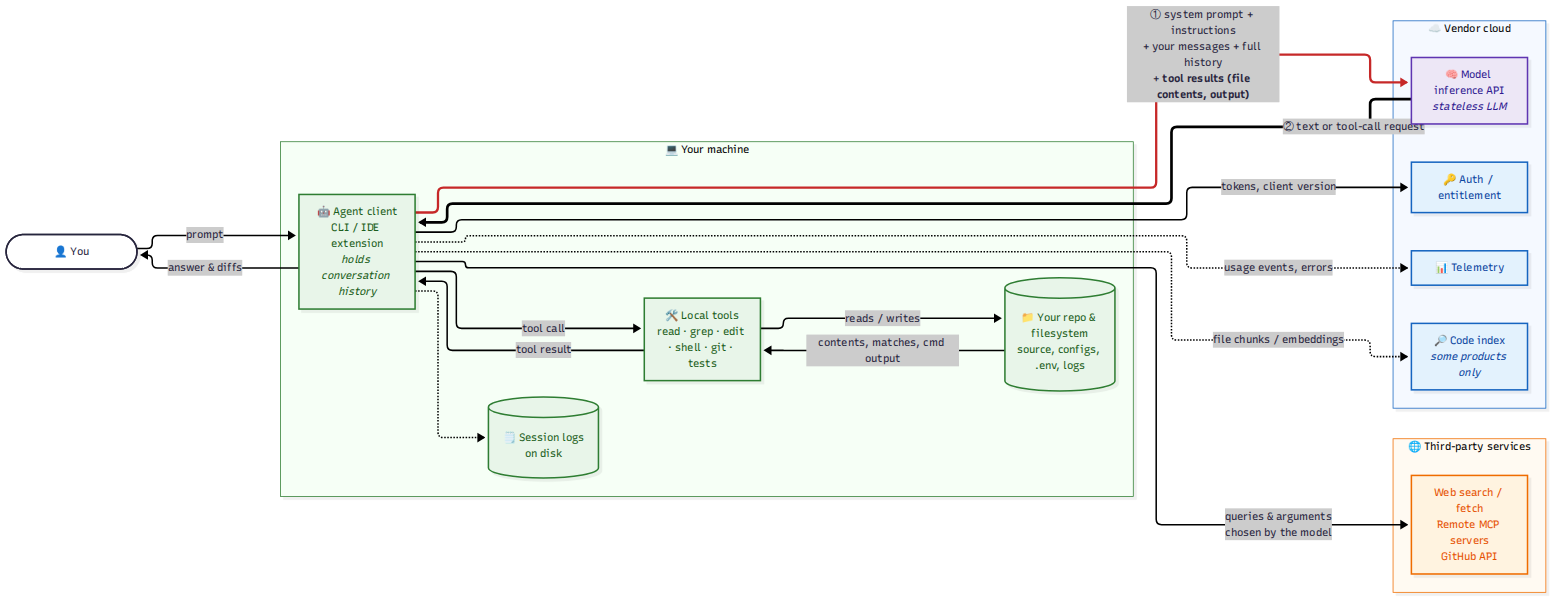
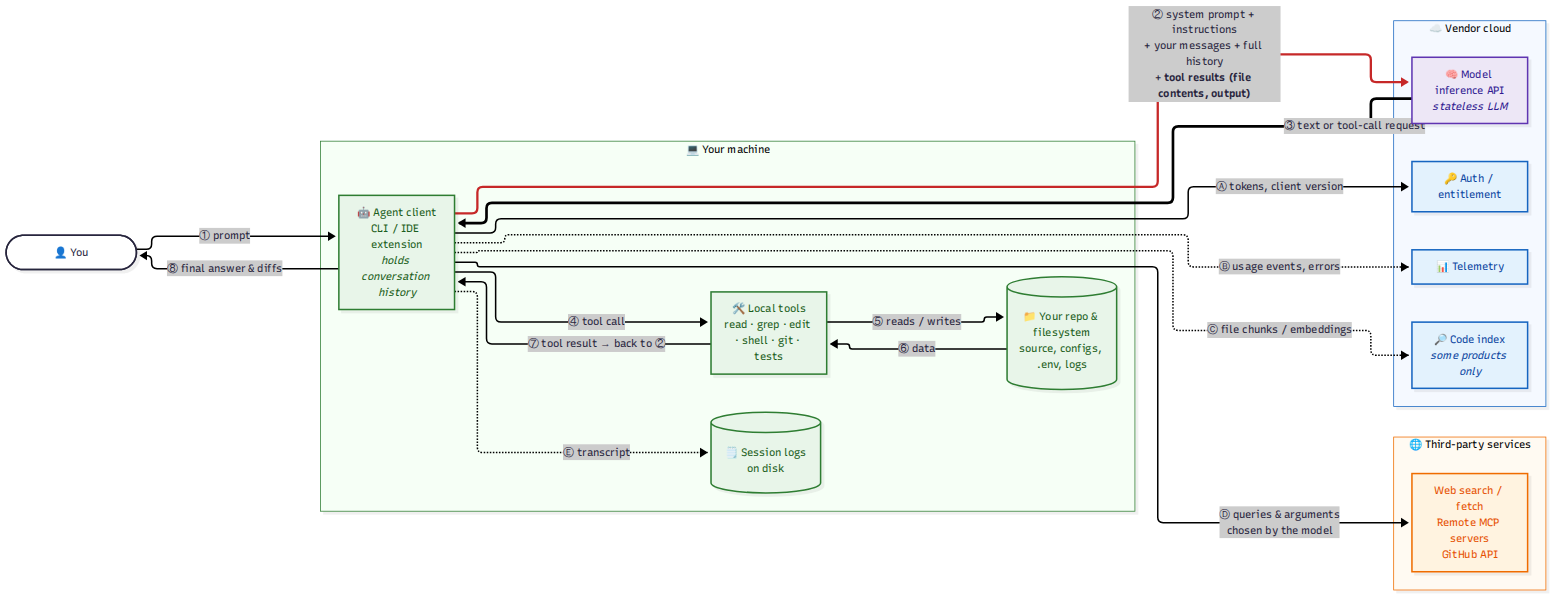
Number data flow diagram steps and add reading key

diff --git a/docs/data-flow.md b/docs/data-flow.md
@@ -12,11 +12,6 @@ flowchart LR
         T["🛠 Local tools<br/>read · grep · edit · shell · git · tests"]
         R[("📁 Your repo & filesystem<br/>source, configs, .env, logs")]
         L[("🗒 Session logs<br/>on disk")]
-        A -- "tool call" --> T
-        T -- "reads / writes" --> R
-        R -- "contents, matches, cmd output" --> T
-        T -- "tool result" --> A
-        A -.-> L
     end
 
     subgraph VENDOR["☁ Vendor cloud"]
@@ -32,15 +27,20 @@ flowchart LR
         X["Web search / fetch<br/>Remote MCP servers<br/>GitHub API"]
     end
 
-    U -- "prompt" --> A
-    A -- "answer & diffs" --> U
+    U -- "① prompt" --> A
+    A == "② system prompt + instructions<br/>+ your messages + full history<br/>+ <b>tool results (file contents, output)</b>" ==> M
+    M == "③ text or tool-call request" ==> A
+    A -- "④ tool call" --> T
+    T -- "⑤ reads / writes" --> R
+    R -- "⑥ data" --> T
+    T -- "⑦ tool result → back to ②" --> A
+    A -- "⑧ final answer & diffs" --> U
 
-    A == "① system prompt + instructions<br/>+ your messages + full history<br/>+ <b>tool results (file contents, output)</b>" ==> M
-    M == "② text or tool-call request" ==> A
-    A -- "tokens, client version" --> AU
-    A -. "usage events, errors" .-> TE
-    A -. "file chunks / embeddings" .-> IX
-    A -- "queries & arguments<br/>chosen by the model" --> X
+    A -- "Ⓐ tokens, client version" --> AU
+    A -. "Ⓑ usage events, errors" .-> TE
+    A -. "Ⓒ file chunks / embeddings" .-> IX
+    A -- "Ⓓ queries & arguments<br/>chosen by the model" --> X
+    A -. "Ⓔ transcript" .-> L
 
     classDef local fill:#e8f5e9,stroke:#2e7d32,color:#1b5e20
     classDef cloud fill:#e3f2fd,stroke:#1565c0,color:#0d47a1
@@ -50,7 +50,7 @@ flowchart LR
     class AU,TE,IX cloud
     class M model
     class X third
-    linkStyle 7 stroke:#c62828,stroke-width:3px
+    linkStyle 1 stroke:#c62828,stroke-width:3px
     style LOCAL fill:#f6fff6,stroke:#2e7d32
     style VENDOR fill:#f5f9ff,stroke:#1565c0
     style THIRD fill:#fffaf2,stroke:#ef6c00
@@ -58,7 +58,32 @@ flowchart LR
 
 **Legend:** 🟥 thick red = the main path where your code leaves the machine · ━ thick = model round-trip · ┄ dotted = optional / product-dependent · 🟩 local · 🟦 vendor · 🟧 third-party
 
-> The model never touches your disk. It only sees what the agent client puts in step ①, and the most sensitive part of that is **tool results**: file contents, search matches and command output.
+### Reading the diagram
+
+**Main loop (numbers)** — repeats ②→⑦ until the task is done:
+
+| # | Step | Leaves your machine? |
+|---|------|----------------------|
+| ① | You type a prompt into the agent | No |
+| ② | Agent sends system prompt, repo instructions, full history **and all tool results so far** to the model | **Yes — this is where your code goes** |
+| ③ | Model replies with text or a request to call a tool | (incoming) |
+| ④ | Agent runs the tool locally (may ask your permission) | No |
+| ⑤ | Tool reads or writes files / runs commands | No |
+| ⑥ | Files, search matches or command output come back to the tool | No |
+| ⑦ | Tool result is appended to history → next request goes back to ② | Sent on the next ② |
+| ⑧ | Agent shows you the final answer and file changes | No |
+
+**Side channels (letters)** — happen alongside the loop:
+
+| | Channel | Notes |
+|---|---------|-------|
+| Ⓐ | Auth / entitlement | Login tokens, client version |
+| Ⓑ | Telemetry | Usage events, errors; configurable in some products |
+| Ⓒ | Code index | Only some products upload file chunks/embeddings |
+| Ⓓ | Third-party tools | Whatever arguments the model chose (search queries, code snippets, etc.) |
+| Ⓔ | Session logs | Local disk only |
+
+> The model never touches your disk. It only sees what the agent client puts in step ②, and the most sensitive part of that is **tool results**: file contents, search matches and command output.
 
 ## Destinations
 

diff --git a/README.md b/README.md
@@ -38,7 +38,7 @@ A plain-language guide to what an AI coding agent (e.g. GitHub Copilot CLI, Copi
 
 ![High-level data flow diagram](docs/images/data-flow.png)
 
-See [docs/data-flow.md](docs/data-flow.md) for the interactive Mermaid version and details.
+See [docs/data-flow.md](docs/data-flow.md) for the Mermaid version and a step-by-step key (①–⑧ main loop, Ⓐ–Ⓔ side channels).
 
 ## Contents
 
